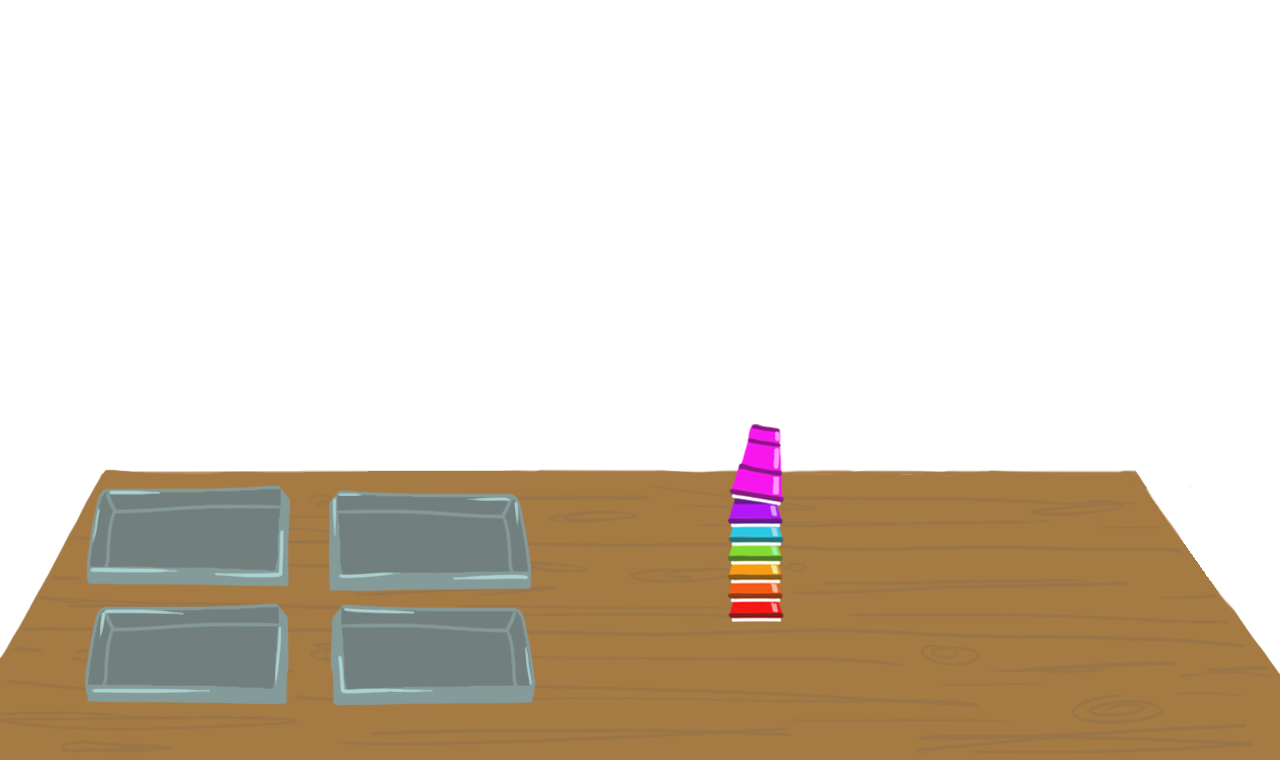
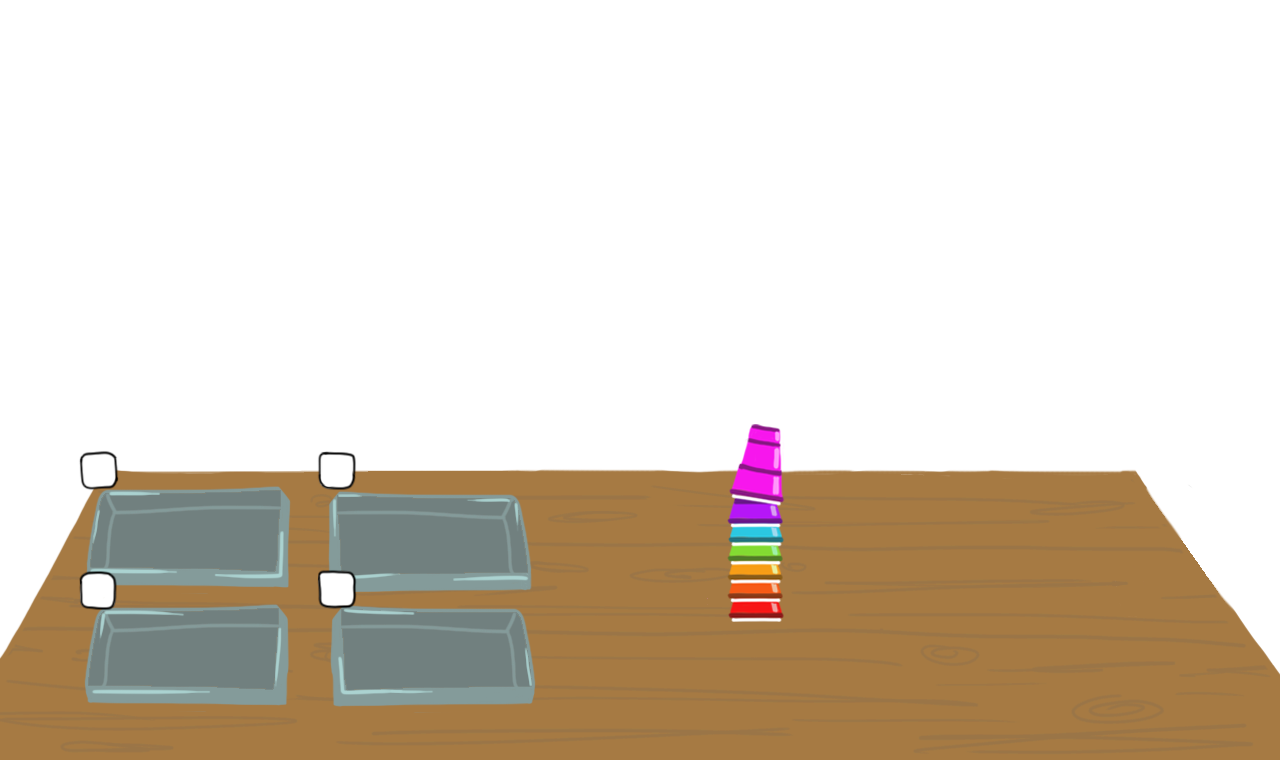
Add rest of art and fix bugs

diff --git a/pages/game.js b/pages/game.js
@@ -79,7 +79,7 @@ const flySwatterStyles = css`
   width: 40px;
   cursor: pointer;
   z-index: 102;
-  transform: rotate(30deg);
+  /* transform: rotate(50deg); */
 
   :focus {
     animation: swat cubic-bezier(0, 1.01, 1, 1) 1s 1;
@@ -104,22 +104,23 @@ const blenderStyles = css`
   width: 55px;
   z-index: 101;
 `;
+const tableStyles = css`
+  pointer-events: none;
+`;
 
 const doorStyles = (doorButtonState) => css`
   position: absolute;
-  width: 255px;
-  height: ${doorButtonState ? '300px' : '160px'};
+  width: ${doorButtonState ? '190px' : '173px'};
+  height: ${doorButtonState ? '270px' : '158px'};
   transform: scale(0.5);
-  top: ${doorButtonState ? '33%' : '60%'};
-  left: 65%;
+  top: ${doorButtonState ? '39%' : '60%'};
+  left: ${doorButtonState ? '68%' : '70%'};
   padding: 0;
   background: none;
   border: none;
   z-index: 101;
 
-  background-image: url(${doorButtonState
-    ? 'door_open.png'
-    : 'door_closed.png'});
+  background-image: url(${doorButtonState ? 'box_open.png' : 'box_closed.png'});
 `;
 
 const pauseButtonStyles = css`
@@ -136,18 +137,33 @@ const pauseButtonStyles = css`
   transform: scale(0.3);
 `;
 
+const playButtonStyles = css`
+  width: 0;
+  height: 74px;
+  border-style: solid;
+  background: transparent;
+  box-sizing: border-box;
+  cursor: pointer;
+  transition: 100ms all ease;
+  border-width: 37px 0px 37px 74px;
+  border-color: transparent transparent transparent #aa336a;
+  transform: scale(0.3);
+`;
+
 const pauseMenuStyles = css`
   width: 620px;
-  height: 360px;
-  top: 50%;
+  /* border: white 3px solid; */
+  height: 300px;
+  top: 53%;
   left: 50%;
   transform: translate(-50%, -50%);
   position: absolute;
   background-color: #0042ff;
-  /* opacity: 90%; */
+  /* opacity: 50%; */
   color: white;
   text-align: center;
   text-justify: center;
+  border-radius: 20px;
 `;
 const startMenuStyles = css`
   width: 620px;
@@ -170,7 +186,7 @@ const gameOverMenuStyles = css`
   left: 50%;
   transform: translate(-50%, -50%);
   position: absolute;
-  background-color: #0042ff;
+  background-color: red;
   /* opacity: 90%; */
   color: white;
   text-align: center;
@@ -211,18 +227,20 @@ const highscoreGridStyles = css`
 `;
 
 const dragQueenStyles = (dragQueen) => css`
-  border: 1px solid black;
-  border-radius: 50%;
-  height: 200px;
-  width: 100px;
-  text-align: center;
+  border: none;
+  padding: 0;
+  background: none;
+  background-color: none;
+  height: 578px;
+  width: 427px;
   position: absolute;
-  top: 10%;
-  right: 100%;
-  transform: translate(-50%, -50%)
-    translateX(${dragQueen.state ? `${dragQueen.position}px` : '765px'});
-  transition: 3000ms;
+  top: -60%;
+  right: ${dragQueen.position}px;
+  transform: translate(-50%, -50%) translateX(765px)
+    translateY(${dragQueen.state ? '0px' : '200px'}) scale(0.5);
+  transition: transform 3000ms;
   transition-timing-function: linear;
+  background-image: url('/dragQueens/${dragQueen.id}/${dragQueen.id}-${dragQueen.patienceMeter}.png');
   :hover {
     cursor: pointer;
   }
@@ -230,7 +248,6 @@ const dragQueenStyles = (dragQueen) => css`
 
 const ingredientButtonStyles = (ingredient) => css`
   border: none;
-  padding: 0;
   background: none;
   background-color: none;
   height: 100px;
@@ -239,6 +256,7 @@ const ingredientButtonStyles = (ingredient) => css`
   background-image: url(${ingredient.spoiled ? `greensmoke.png` : `/`}),
     url('/${ingredient.id}/${ingredient.id}-${ingredient.stock}.png');
   z-index: 101;
+  cursor: pointer;
 `;
 
 const ingredientButtonParentStyles = css`
@@ -253,7 +271,7 @@ const ingredientButtonParentStyles = css`
 `;
 
 const numberLabelStyles = css`
-  border: 1px solid black;
+  border: none;
   font-size: 25px;
   padding: 0;
   background: none;
@@ -278,8 +296,10 @@ const containerButtonStyles = css`
   height: 35px;
   width: 35px;
   background: none;
+  border: none;
   font-size: 5px;
   z-index: 101;
+  cursor: pointer;
 `;
 const containerButtonParentStyles = css`
   display: grid;
@@ -296,7 +316,6 @@ const containerButtonParentStyles = css`
 
 // TODOS:
 
-// - figure out how to make sprite work with patienceMeter
 // - create a readme file
 
 // list state up of paused
@@ -399,28 +418,28 @@ export default function GamePage(props) {
     {
       id: 1,
       state: false,
-      position: Math.floor(Math.random() * (600 - 200 + 1) + 200),
+      position: Math.floor(Math.random() * (450 - 100 + 1) + 100),
       enterTime: 0,
       patienceMeter: 0,
     },
     {
       id: 2,
       state: false,
-      position: Math.floor(Math.random() * (600 - 200 + 1) + 200),
+      position: Math.floor(Math.random() * (450 - 100 + 1) + 100),
       enterTime: 0,
       patienceMeter: 0,
     },
     {
       id: 3,
       state: false,
-      position: Math.floor(Math.random() * (600 - 200 + 1) + 200),
+      position: Math.floor(Math.random() * (450 - 100 + 1) + 100),
       enterTime: 0,
       patienceMeter: 0,
     },
     {
       id: 4,
       state: false,
-      position: Math.floor(Math.random() * (600 - 200 + 1) + 200),
+      position: Math.floor(Math.random() * (450 - 100 + 1) + 100),
       enterTime: 0,
       patienceMeter: 0,
     },
@@ -514,6 +533,7 @@ export default function GamePage(props) {
   function handleRestart() {
     // page.reload
     router.reload(window.location.pathname);
+    gameOver = false;
   }
 
   function handleShowHighscores() {
@@ -562,6 +582,7 @@ export default function GamePage(props) {
               ...dragQueen,
               state: true,
               enterTime: roundedDisplayTime,
+              position: Math.floor(Math.random() * (450 - 100 + 1) + 100),
             };
           } else {
             return {
@@ -691,7 +712,13 @@ export default function GamePage(props) {
       <div>
         <div css={wrapperStyles}>
           <div>Score: {score}</div>
-          <button css={pauseButtonStyles} onClick={pause} />
+
+          {paused ? (
+            <button css={playButtonStyles} onClick={play} />
+          ) : (
+            <button css={pauseButtonStyles} onClick={pause} />
+          )}
+
           <div css={ingredientsStyles}>
             {/* the drag queens */}
             {dragQueens.map((dragQueen) => (
@@ -716,9 +743,9 @@ export default function GamePage(props) {
                               return {
                                 ...clickedDragQueen,
                                 state: false,
-                                position: Math.floor(
-                                  Math.random() * (600 - 200 + 1) + 200,
-                                ),
+                                // position: Math.floor(
+                                //   Math.random() * (450 - 100 + 1) + 100,
+                                // ),
                                 enterTime: 0,
                                 patienceMeter: 0,
                               };
@@ -741,9 +768,7 @@ export default function GamePage(props) {
                       setScore(score + 10);
                     }
                   }}
-                >
-                  {dragQueen.id}
-                </button>
+                />
               </div>
             ))}{' '}
             {/* the ingredients */}
@@ -874,7 +899,7 @@ export default function GamePage(props) {
                     );
                   }}
                 >
-                  {' '}
+                  {/* {' '}
                   {ingredientInfo.map((singleIngredientInfo) => {
                     if (ingredient.id === singleIngredientInfo.id) {
                       return (
@@ -885,7 +910,7 @@ export default function GamePage(props) {
                         </>
                       );
                     }
-                  })}
+                  })} */}
                 </button>
               ))}
             </div>
@@ -894,7 +919,7 @@ export default function GamePage(props) {
           )}
 
           <div css={fliesStyles(flies)} />
-          <div tabIndex="0" css={flySwatterStyles}>
+          <div tabindex="0" css={flySwatterStyles}>
             <Image
               src="/flyswatter.png"
               width="100"
@@ -911,15 +936,15 @@ export default function GamePage(props) {
           <div css={blenderStyles}>
             <Image src="/blender.png" width="145" height="300" />
           </div>
-
-          <Image src="/table.png" width="640" height="380" />
+          <div css={tableStyles}>
+            <Image src="/table.png" width="640" height="380" />
+          </div>
         </div>
         {!gameOver && paused && displayTime > 0 ? (
           <div css={pauseMenuStyles}>
             PAUSE MENU
             <button onClick={handleRulesToggleButton}>RULES</button>
             <button onClick={handleShowHighscores}>HIGH SCORES</button>
-            <button onClick={play}>Resume</button>
             <button onClick={handleRestart}>START OVER</button>
             {rulesButton ? <div>THE RULES</div> : <div />}
             {highscoreButton ? (
@@ -1094,7 +1119,7 @@ export default function GamePage(props) {
         ) : (
           <div />
         )}
-        {!scoreState && !props.userId ? (
+        {gameOver && !scoreState && !props.userId ? (
           <div>
             <div css={gameOverMenuStyles}>
               <div>GAME OVER</div>
@@ -1178,7 +1203,7 @@ export default function GamePage(props) {
           <div />
         )}
       </div>
-      <div>
+      {/* <div>
         {dragQueens.map((dragQueen) => (
           <div
             // move this to button later
@@ -1189,7 +1214,7 @@ export default function GamePage(props) {
             </div>
           </div>
         ))}
-      </div>
+      </div> */}
       <div>{formatTimer(displayTime)}</div>
     </div>
   );

diff --git a/pages/_app.js b/pages/_app.js
@@ -1,5 +1,6 @@
 import '../styles/globals.css';
 import { css } from '@emotion/react';
+import Head from 'next/head';
 import Image from 'next/image';
 import Link from 'next/link';
 import { useCallback, useEffect, useState } from 'react';
@@ -16,8 +17,7 @@ const gameScreenStyles = css`
   z-index: -1000;
 `;
 const borderStyles = css`
-  border-left: 200px solid white;
-  border-right: 200px solid white;
+  border: 200px solid white;
   margin: 0 auto;
   top: 50%;
   left: 50%;
@@ -93,6 +93,14 @@ function App({ Component, pageProps }) {
   return (
     <div>
       {[[], false, null, undefined]}
+      <Head>
+        <title>The Smoothie Queen</title>
+        <meta
+          name="description"
+          content="The Smoothie Queen is a game in which you create smoothies for drag queens before they become angry."
+        />
+        <link rel="icon" href="/icon.png" />
+      </Head>
       <Layout user={user}>
         <Component {...pageProps} refreshUserProfile={refreshUserProfile} />
         <div css={borderStyles}>
